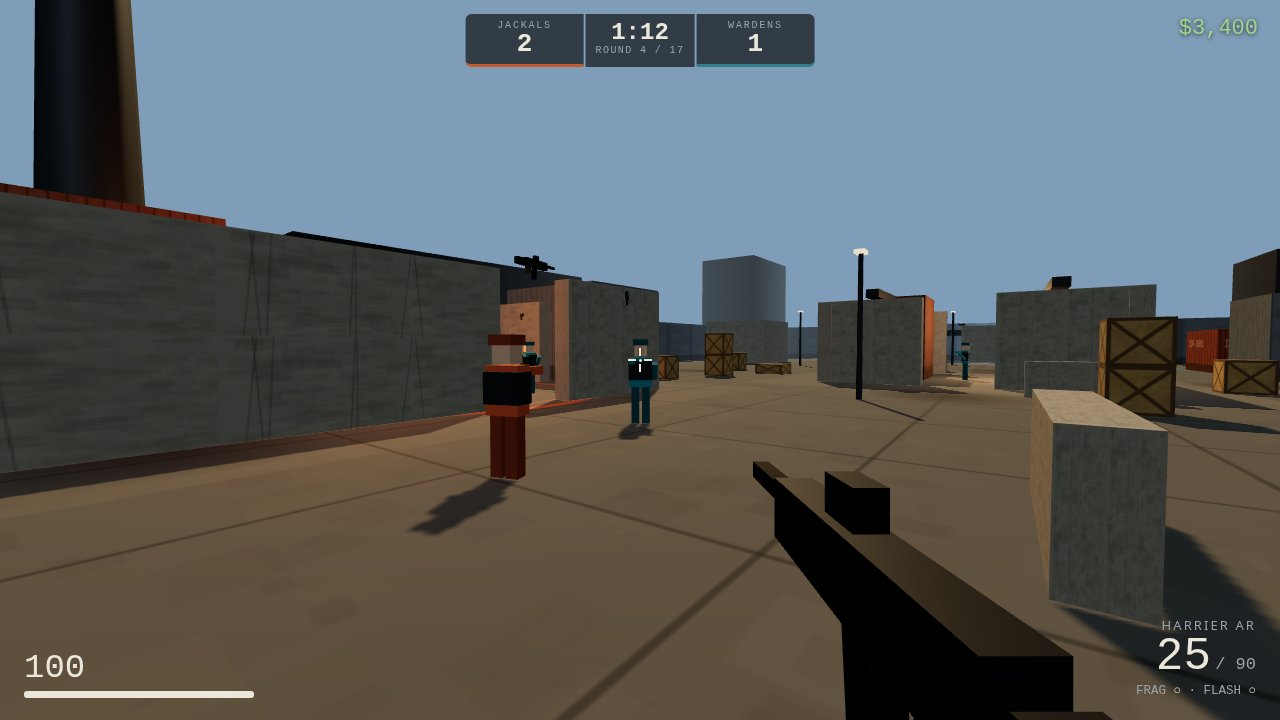
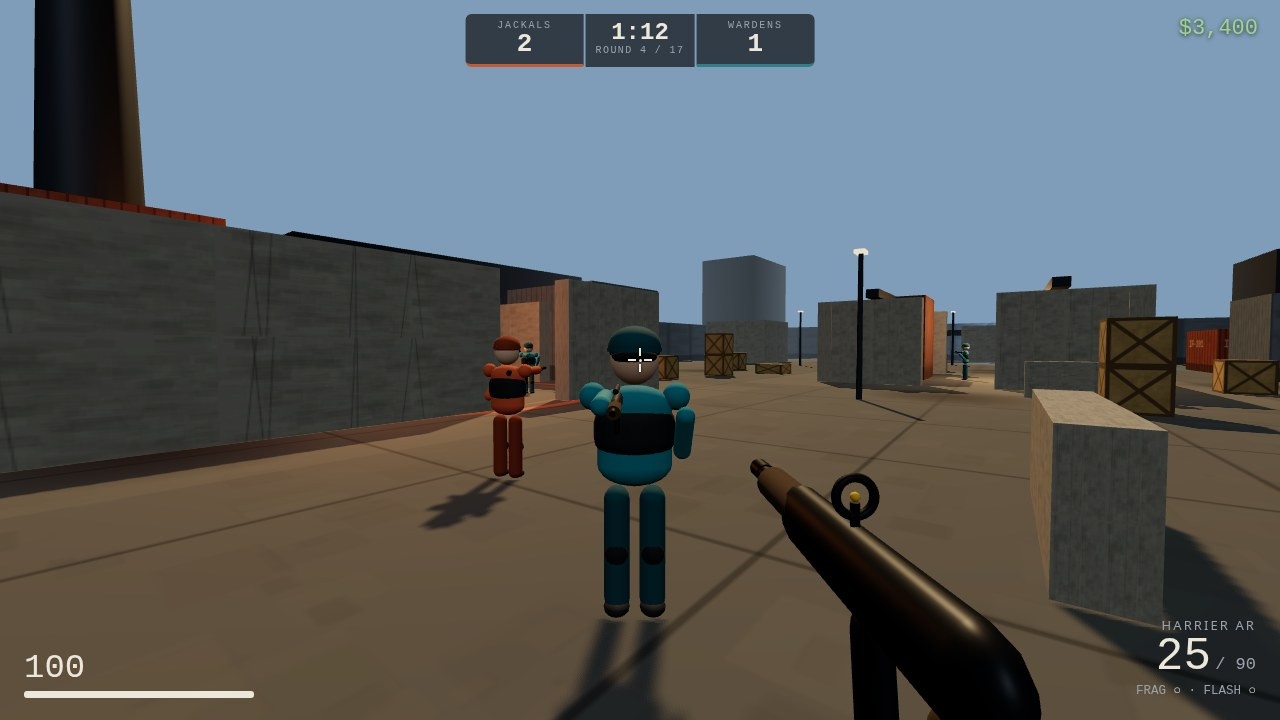
Rounded models: capsule/tube guns and capsule-sphere soldiers
Weapons rebuilt from rounded primitives on the original anchors: capsule
receivers and stocks, cylinder barrels, torus optic rims, a real cylinder
drum on the Magpie, a ring reflex window on the Harrier. Bot soldiers are
now capsule legs/torso/vest, sphere shoulders, kneepads and boots, and a
sphere head with visor band under a dome helmet. Pose anchors, hitboxes,
collision and damage are unchanged; the gun mount now sits in the hands
instead of floating above the helmet (presentation only). Screenshots
re-staged: scope cover kept, shot 4 brings a Warden close to the camera.

diff --git a/game/src/weapons.js b/game/src/weapons.js
@@ -112,9 +112,10 @@ export function spreadRadians(def, speedRatio, airborne, crouched, scoped, bloom
 }
 
 // --- Gun models -------------------------------------------------------------
-// First-person viewmodels and the simpler third-person guns bots carry are both boxes with
-// intent: receiver, barrel, magazine, stock, a sight. One material set, shared geometry is
-// created per gun (nine guns, nine bots — cheap enough, and each reads differently).
+// First-person viewmodels and the third-person guns bots carry are rounded builds on the
+// same anchors as the boxy originals: capsule receivers and stocks, tube barrels, ring
+// optics. Every centre and overall length matches the old model, so muzzle points, mounts
+// and the ADS picture stay where they were — only the shapes changed.
 const gunMats = {
   body: new THREE.MeshStandardMaterial({ color: 0x2c2f33, roughness: 0.45, metalness: 0.7 }),
   grip: new THREE.MeshStandardMaterial({ color: 0x4a3826, roughness: 0.9 }),
@@ -122,78 +123,101 @@ const gunMats = {
   barrel: new THREE.MeshStandardMaterial({ color: 0x17181a, roughness: 0.35, metalness: 0.8 }),
 };
 
-function part(group, mat, x, y, z, w, h, d, rx = 0) {
-  const m = new THREE.Mesh(new THREE.BoxGeometry(w, h, d), mat);
+// put(): one rounded part; sx/sy squash its cross-section to the old box's proportions.
+function put(g, geo, mat, x, y, z, rx = 0, sx = 1, sy = 1) {
+  const m = new THREE.Mesh(geo, mat);
   m.position.set(x, y, z);
   m.rotation.x = rx;
-  group.add(m);
+  m.scale.set(sx, sy, 1);
+  g.add(m);
   return m;
 }
+const tube = (r, l) => new THREE.CylinderGeometry(r, r, l, 20).rotateX(Math.PI / 2); // barrel along z
+const rod = (r, l) => new THREE.CapsuleGeometry(r, Math.max(0.01, l - 2 * r), 4, 16).rotateX(Math.PI / 2); // capsule along z, total length l
+const drop = (r, l) => new THREE.CapsuleGeometry(r, Math.max(0.01, l - 2 * r), 4, 16); // capsule along y, total height l
+const pin = (r, l) => new THREE.CylinderGeometry(r, r, l, 12); // short post along y
+const ring = (r, t) => new THREE.TorusGeometry(r, t, 10, 28); // optic rim, facing the shooter
+const ball = (r) => new THREE.SphereGeometry(r, 16, 12);
 
 export function buildGunModel(id) {
   const g = new THREE.Group();
+  const B = gunMats.body, K = gunMats.barrel, W = gunMats.grip, A = gunMats.accent;
   if (id === 'wren') {
-    part(g, gunMats.body, 0, 0, 0, 0.045, 0.07, 0.21);
-    part(g, gunMats.barrel, 0, 0.028, -0.13, 0.03, 0.03, 0.07);
-    part(g, gunMats.grip, 0, -0.075, 0.055, 0.04, 0.1, 0.05, 0.25);
-    part(g, gunMats.accent, 0, 0.045, -0.05, 0.012, 0.02, 0.012);
+    put(g, rod(0.035, 0.21), B, 0, 0, 0, 0, 0.64); // rounded slide
+    put(g, tube(0.015, 0.07), K, 0, 0.028, -0.13); // muzzle
+    put(g, drop(0.025, 0.1), W, 0, -0.075, 0.055, 0.25, 0.8); // grip
+    put(g, ball(0.009), A, 0, 0.045, -0.05); // front bead
   } else if (id === 'magpie') {
-    part(g, gunMats.body, 0, 0.01, -0.02, 0.05, 0.06, 0.3); // frame and top strap
-    part(g, gunMats.barrel, 0, 0.02, -0.24, 0.032, 0.032, 0.16); // heavy barrel
-    part(g, gunMats.body, 0, -0.03, 0.0, 0.058, 0.055, 0.075); // cylinder
-    part(g, gunMats.grip, 0, -0.085, 0.06, 0.042, 0.105, 0.052, 0.3);
-    part(g, gunMats.accent, 0, 0.048, -0.13, 0.012, 0.02, 0.012); // front blade
+    put(g, rod(0.03, 0.3), B, 0, 0.01, -0.02, 0, 0.83); // frame and top strap
+    put(g, tube(0.016, 0.16), K, 0, 0.02, -0.24); // heavy barrel
+    put(g, tube(0.011, 0.14), K, 0, -0.004, -0.235); // underlug
+    put(g, tube(0.0295, 0.075), B, 0, -0.03, 0); // the drum, round at last
+    put(g, drop(0.026, 0.105), W, 0, -0.085, 0.06, 0.3, 0.8); // grip
+    put(g, ball(0.009), A, 0, 0.048, -0.13); // front blade
   } else if (id === 'boar') {
-    part(g, gunMats.body, 0, 0, -0.05, 0.06, 0.08, 0.4);
-    part(g, gunMats.barrel, 0, 0.015, -0.38, 0.035, 0.035, 0.34);
-    part(g, gunMats.grip, 0, -0.01, -0.22, 0.05, 0.05, 0.14); // pump
-    part(g, gunMats.grip, 0, -0.02, 0.24, 0.055, 0.09, 0.18); // stock
+    put(g, rod(0.04, 0.4), B, 0, 0, -0.05, 0, 0.75); // receiver
+    put(g, tube(0.0175, 0.34), K, 0, 0.015, -0.38); // barrel
+    put(g, tube(0.013, 0.3), K, 0, -0.024, -0.36); // magazine tube under it
+    put(g, tube(0.027, 0.14), W, 0, 0.012, -0.22); // pump sleeve
+    put(g, rod(0.045, 0.18), W, 0, -0.02, 0.24, 0, 0.61); // stock
   } else if (id === 'krait') {
-    part(g, gunMats.body, 0, 0, -0.02, 0.055, 0.09, 0.34);
-    part(g, gunMats.barrel, 0, 0.01, -0.26, 0.03, 0.03, 0.16);
-    part(g, gunMats.body, 0, -0.09, -0.02, 0.035, 0.13, 0.05); // long mag
-    part(g, gunMats.grip, 0, -0.07, 0.1, 0.04, 0.09, 0.045, 0.25);
-    part(g, gunMats.accent, 0, 0.06, -0.1, 0.02, 0.025, 0.1); // top rail stripe
+    put(g, rod(0.045, 0.34), B, 0, 0, -0.02, 0, 0.61); // receiver
+    put(g, tube(0.015, 0.16), K, 0, 0.01, -0.26); // barrel
+    put(g, tube(0.021, 0.05), K, 0, 0.01, -0.325); // muzzle cage
+    put(g, drop(0.025, 0.13), B, 0, -0.09, -0.02, 0, 0.7); // long mag
+    put(g, drop(0.024, 0.09), W, 0, -0.07, 0.1, 0.25, 0.83); // grip
+    put(g, rod(0.0125, 0.1), A, 0, 0.058, -0.1, 0, 0.8); // top rail stripe
   } else if (id === 'jackdaw') {
-    part(g, gunMats.body, 0, 0, -0.03, 0.056, 0.085, 0.44);
-    part(g, gunMats.grip, 0, 0.005, -0.3, 0.052, 0.06, 0.2); // long handguard
-    part(g, gunMats.barrel, 0, 0.012, -0.42, 0.026, 0.026, 0.1);
-    part(g, gunMats.body, 0, 0.068, -0.02, 0.03, 0.028, 0.3); // carry handle
-    part(g, gunMats.body, 0, -0.095, -0.01, 0.036, 0.13, 0.055); // straight mag
-    part(g, gunMats.grip, 0, -0.07, 0.11, 0.04, 0.09, 0.045, 0.25);
-    part(g, gunMats.body, 0, -0.01, 0.26, 0.05, 0.07, 0.13); // stock
+    put(g, rod(0.0425, 0.44), B, 0, 0, -0.03, 0, 0.66); // receiver
+    put(g, tube(0.03, 0.2), W, 0, 0.005, -0.3); // round handguard
+    put(g, tube(0.013, 0.1), K, 0, 0.012, -0.42); // barrel
+    put(g, rod(0.014, 0.3), B, 0, 0.068, -0.02); // carry handle
+    put(g, drop(0.027, 0.13), B, 0, -0.095, -0.01, 0, 0.67); // straight mag
+    put(g, drop(0.024, 0.09), W, 0, -0.07, 0.11, 0.25, 0.83); // grip
+    put(g, rod(0.035, 0.13), B, 0, -0.01, 0.26, 0, 0.71); // stock
   } else if (id === 'heron') {
-    part(g, gunMats.body, 0, 0, -0.06, 0.05, 0.07, 0.52);
-    part(g, gunMats.barrel, 0, 0.012, -0.5, 0.024, 0.024, 0.4);
-    part(g, gunMats.body, 0, 0.072, -0.1, 0.042, 0.046, 0.2); // scope tube
-    part(g, gunMats.body, 0, -0.085, -0.06, 0.034, 0.11, 0.05); // slim mag
-    part(g, gunMats.grip, 0, -0.07, 0.1, 0.04, 0.09, 0.045, 0.25);
-    part(g, gunMats.grip, 0, -0.01, 0.3, 0.054, 0.075, 0.2); // stock
-    part(g, gunMats.barrel, 0, -0.055, -0.44, 0.012, 0.07, 0.012); // bipod nub
+    put(g, rod(0.035, 0.52), B, 0, 0, -0.06, 0, 0.71); // receiver
+    put(g, tube(0.012, 0.4), K, 0, 0.012, -0.5); // barrel
+    put(g, tube(0.023, 0.2), B, 0, 0.072, -0.1); // scope tube
+    put(g, tube(0.029, 0.035), K, 0, 0.072, -0.19); // objective bell
+    put(g, tube(0.026, 0.03), K, 0, 0.072, -0.015); // ocular bell
+    put(g, ring(0.024, 0.0035), K, 0, 0.072, -0.205); // lens rim
+    put(g, drop(0.025, 0.11), B, 0, -0.085, -0.06, 0, 0.68); // slim mag
+    put(g, drop(0.024, 0.09), W, 0, -0.07, 0.1, 0.25, 0.83); // grip
+    put(g, rod(0.0375, 0.2), W, 0, -0.01, 0.3, 0, 0.72); // stock
+    put(g, pin(0.006, 0.07), K, 0, -0.055, -0.44); // bipod nub
   } else if (id === 'oxen') {
-    part(g, gunMats.body, 0, 0, -0.04, 0.075, 0.1, 0.46); // fat receiver
-    part(g, gunMats.barrel, 0, 0.015, -0.42, 0.034, 0.034, 0.32); // shrouded barrel
-    part(g, gunMats.body, 0, -0.115, -0.05, 0.09, 0.11, 0.16); // belt box
-    part(g, gunMats.body, 0, 0.075, -0.02, 0.026, 0.03, 0.3); // carry handle
-    part(g, gunMats.grip, 0, -0.07, 0.13, 0.042, 0.095, 0.046, 0.25);
-    part(g, gunMats.body, 0, -0.01, 0.27, 0.056, 0.075, 0.15); // stock
-    part(g, gunMats.accent, 0, 0.045, -0.56, 0.014, 0.028, 0.014); // front post
+    put(g, rod(0.05, 0.46), B, 0, 0, -0.04, 0, 0.75); // fat receiver
+    put(g, tube(0.017, 0.32), K, 0, 0.015, -0.42); // barrel
+    put(g, tube(0.027, 0.18), K, 0, 0.015, -0.36); // perforated shroud
+    put(g, rod(0.055, 0.16), B, 0, -0.115, -0.05, 0, 0.82); // belt box, rounded
+    put(g, rod(0.015, 0.3), B, 0, 0.075, -0.02); // carry handle
+    put(g, drop(0.025, 0.095), W, 0, -0.07, 0.13, 0.25, 0.84); // grip
+    put(g, rod(0.0375, 0.15), B, 0, -0.01, 0.27, 0, 0.75); // stock
+    put(g, ball(0.01), A, 0, 0.048, -0.56); // front post
   } else if (id === 'lance') {
-    part(g, gunMats.body, 0, 0, -0.05, 0.05, 0.07, 0.5);
-    part(g, gunMats.barrel, 0, 0.01, -0.48, 0.025, 0.025, 0.44);
-    part(g, gunMats.body, 0, 0.078, -0.08, 0.046, 0.052, 0.24); // long scope tube
-    part(g, gunMats.barrel, 0, 0.078, -0.21, 0.056, 0.06, 0.03); // objective bell
-    part(g, gunMats.grip, 0, -0.02, 0.3, 0.055, 0.08, 0.22); // stock
-    part(g, gunMats.body, 0, -0.08, -0.05, 0.035, 0.1, 0.05); // mag
+    put(g, rod(0.035, 0.5), B, 0, 0, -0.05, 0, 0.71); // receiver
+    put(g, tube(0.0125, 0.44), K, 0, 0.01, -0.48); // barrel
+    put(g, tube(0.018, 0.06), K, 0, 0.01, -0.67); // muzzle brake
+    put(g, tube(0.026, 0.24), B, 0, 0.078, -0.08); // scope tube
+    put(g, tube(0.031, 0.035), K, 0, 0.078, -0.21); // objective bell
+    put(g, tube(0.028, 0.03), K, 0, 0.078, 0.025); // ocular bell
+    put(g, ring(0.027, 0.004), K, 0, 0.078, -0.226); // lens rim
+    put(g, ball(0.011), K, 0.042, 0, 0.05); // bolt knob
+    put(g, rod(0.04, 0.22), W, 0, -0.02, 0.3, 0, 0.69); // stock
+    put(g, drop(0.025, 0.1), B, 0, -0.08, -0.05, 0, 0.7); // mag
   } else {
     // harrier, wearing its red-dot sight
-    part(g, gunMats.body, 0, 0, -0.03, 0.055, 0.085, 0.42);
-    part(g, gunMats.barrel, 0, 0.012, -0.33, 0.028, 0.028, 0.2);
-    part(g, gunMats.body, 0, -0.095, 0.0, 0.035, 0.14, 0.055, -0.12); // curved mag
-    part(g, gunMats.grip, 0, -0.07, 0.12, 0.04, 0.09, 0.045, 0.25);
-    part(g, gunMats.body, 0, -0.01, 0.27, 0.05, 0.07, 0.14); // stock
-    part(g, gunMats.body, 0, 0.068, -0.04, 0.036, 0.045, 0.07); // reflex housing
-    part(g, gunMats.accent, 0, 0.072, -0.045, 0.008, 0.014, 0.008); // the dot
+    put(g, rod(0.0425, 0.42), B, 0, 0, -0.03, 0, 0.65); // receiver
+    put(g, tube(0.027, 0.15), W, 0, 0.008, -0.27); // round handguard
+    put(g, tube(0.014, 0.2), K, 0, 0.012, -0.33); // barrel
+    put(g, tube(0.017, 0.05), K, 0, 0.012, -0.415); // muzzle tip
+    put(g, drop(0.0275, 0.14), B, 0, -0.095, 0, -0.12, 0.64); // curved mag
+    put(g, drop(0.024, 0.09), W, 0, -0.07, 0.12, 0.25, 0.83); // grip
+    put(g, rod(0.035, 0.14), B, 0, -0.01, 0.27, 0, 0.71); // stock
+    put(g, pin(0.005, 0.028), B, 0, 0.052, -0.04); // reflex post
+    put(g, ring(0.02, 0.005), B, 0, 0.072, -0.04); // reflex window
+    put(g, ball(0.005), A, 0, 0.072, -0.04); // the dot
   }
   return g;
 }

diff --git a/game/src/actors.js b/game/src/actors.js
@@ -78,37 +78,59 @@ export function stepLocomotion(actor, wishX, wishZ, speedMax, wantJump, dt, coll
 const skinMat = new THREE.MeshStandardMaterial({ color: 0xc9a186, roughness: 0.8 });
 const darkMat = new THREE.MeshStandardMaterial({ color: 0x2a2c2e, roughness: 0.7, metalness: 0.3 });
 
-function limb(mat, w, h, d, x, y, z) {
-  const m = new THREE.Mesh(new THREE.BoxGeometry(w, h, d), mat);
+// One rounded part: capsule limbs, sphere joints and head, squashed-sphere torso and vest.
+function part(mat, geo, x, y, z, rx = 0, sx = 1, sy = 1, sz = 1) {
+  const m = new THREE.Mesh(geo, mat);
   m.position.set(x, y, z);
+  m.rotation.x = rx;
+  m.scale.set(sx, sy, sz);
   m.castShadow = true;
   return m;
 }
 
-// A soldier from boxes: legs that swing, a team-colour torso, a dark vest, helmet, and a gun
-// carried in both hands at the aim pitch. Built once per bot and posed every frame.
+// A soldier, rounded: capsule legs that swing from the hip, a capsule torso under a rounded
+// vest, sphere shoulders and kneepads, and a sphere head with a visor band under a dome
+// helmet, gun carried in both hands at the aim pitch. Every pose anchor (hip pivots, arm
+// pivot) and overall dimension matches the boxy original, and the silhouette still fills
+// the hitboxes — which are computed from the actor, never from this model. One anchor did
+// move: the gun mount used to sit at y 1.32 inside the arm pivot (y 1.34), floating the gun
+// a metre over the helmet; it now sits at the arm's end, in the hands, as the pose code
+// always described. Presentation only — shot rays still start at the eye. Built once per
+// bot and posed every frame.
 export function buildActorModel(actor) {
   const teamMat = new THREE.MeshStandardMaterial({ color: TEAM_COLORS[actor.team], roughness: 0.75 });
   const teamDark = new THREE.MeshStandardMaterial({ color: actor.team === 0 ? PALETTE.jackalDark : PALETTE.wardenDark, roughness: 0.8 });
   const g = new THREE.Group();
-  const legL = limb(teamDark, 0.16, 0.78, 0.19, -0.11, 0.39, 0);
-  const legR = limb(teamDark, 0.16, 0.78, 0.19, 0.11, 0.39, 0);
-  legL.geometry.translate(0, -0.39, 0); legL.position.y = 0.78;
-  legR.geometry.translate(0, -0.39, 0); legR.position.y = 0.78;
-  const torso = limb(teamMat, 0.46, 0.62, 0.26, 0, 1.09, 0);
-  const vest = limb(darkMat, 0.5, 0.4, 0.3, 0, 1.12, 0);
-  const head = limb(skinMat, 0.26, 0.28, 0.26, 0, 1.56, 0);
-  const helmet = limb(teamDark, 0.32, 0.13, 0.32, 0, 1.71, 0);
+  const legGeo = new THREE.CapsuleGeometry(0.08, 0.62, 4, 14);
+  legGeo.translate(0, -0.39, 0); // pivot at the hip, as the boxy legs had
+  const bootGeo = new THREE.SphereGeometry(0.08, 16, 12);
+  const kneeGeo = new THREE.SphereGeometry(0.07, 14, 10);
+  const mkLeg = (x) => {
+    const leg = part(teamDark, legGeo, x, 0.78, 0, 0, 1, 1, 1.19);
+    leg.add(part(darkMat, bootGeo, 0, -0.735, -0.03, 0, 1, 0.55, 1.1)); // boot rides the swing
+    leg.add(part(darkMat, kneeGeo, 0, -0.4, -0.055, 0, 1, 1, 0.55)); // kneepad
+    return leg;
+  };
+  const legL = mkLeg(-0.11);
+  const legR = mkLeg(0.11);
+  const torso = part(teamMat, new THREE.CapsuleGeometry(0.13, 0.36, 6, 18), 0, 1.09, 0, 0, 1.77);
+  const vest = part(darkMat, new THREE.CapsuleGeometry(0.15, 0.1, 6, 18), 0, 1.12, 0, 0, 1.67);
+  const shoulderGeo = new THREE.SphereGeometry(0.085, 18, 14);
+  const shoulderL = part(teamMat, shoulderGeo, -0.255, 1.33, 0);
+  const shoulderR = part(teamMat, shoulderGeo, 0.255, 1.33, 0);
+  const head = part(skinMat, new THREE.SphereGeometry(0.15, 22, 16), 0, 1.56, 0, 0, 1, 1.06);
+  const visor = part(darkMat, new THREE.SphereGeometry(0.13, 20, 14), 0, 1.575, -0.07, 0, 1.05, 0.4, 0.75);
+  const helmet = part(teamDark, new THREE.SphereGeometry(0.163, 22, 16), 0, 1.635, 0, 0, 1, 0.78);
+  const brim = part(teamDark, new THREE.CylinderGeometry(0.168, 0.168, 0.022, 24), 0, 1.615, 0);
   const armPivot = new THREE.Group();
   armPivot.position.set(0.18, 1.34, 0);
-  const arm = limb(teamMat, 0.11, 0.11, 0.52, 0, -0.02, -0.2);
+  const arm = part(teamMat, new THREE.CapsuleGeometry(0.055, 0.41, 4, 14).rotateX(Math.PI / 2), 0, -0.02, -0.2);
   armPivot.add(arm);
   const gunMount = new THREE.Group();
-  gunMount.position.set(0.1, 1.32, -0.18);
+  gunMount.position.set(-0.08, -0.02, -0.24); // at the arm's end, in the hands
   armPivot.add(gunMount);
-  const armL = limb(teamMat, 0.11, 0.42, 0.11, -0.29, 1.12, -0.12);
-  armL.rotation.x = -0.7;
-  g.add(legL, legR, torso, vest, head, helmet, armPivot, armL);
+  const armL = part(teamMat, new THREE.CapsuleGeometry(0.055, 0.31, 4, 14), -0.29, 1.12, -0.12, -0.7);
+  g.add(legL, legR, torso, vest, shoulderL, shoulderR, head, visor, helmet, brim, armPivot, armL);
   g.userData = { legL, legR, torso, vest, head, helmet, armPivot, gunMount, teamMat };
   actor.model = g;
   return g;

diff --git a/game/src/main.js b/game/src/main.js
@@ -731,8 +731,9 @@ function stageShot(n) {
     hud.showBuy();
     buyOpen = true;
   } else {
-    // Down A-long toward the furnace door, unscoped: two Wardens holding it, an ally
-    // pushing the flank — the map read at a glance.
+    // Down A-long toward the furnace door, unscoped: a Warden steps out close in front of
+    // the player (near enough that the rounded kit reads), a second holds the door, an
+    // ally pushes the flank — the map read at a glance.
     place(player, -27.5, 1.5, -19, -5);
     player.pitch = -0.03;
     player.loadout.primary = { id: 'harrier', mag: 25, reserve: 90 };
@@ -740,8 +741,8 @@ function stageShot(n) {
     player.money = 3400;
     place(ally, -23.8, -3.4, -19, -5);
     setModelGun(ally, 'harrier');
-    place(vex, -19.5, -4.6, player.pos.x, player.pos.z);
-    setModelGun(vex, 'harrier');
+    place(vex, -25.2, -0.3, player.pos.x, player.pos.z);
+    setModelGun(vex, 'jackdaw');
     place(onyx, -16.8, -11.5, -19, -6);
     match.scores = [2, 1];
     match.round = 4;
